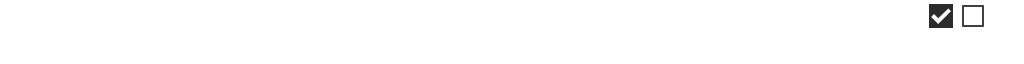
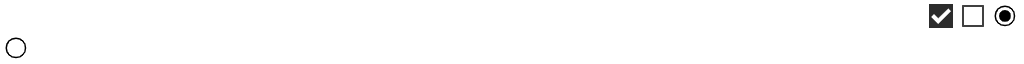
add input

Changed region(s): [[0.9688, 0.0938, 1.0, 0.4062], [0.0, 0.5938, 0.0312, 0.9062]]

diff --git a/crates/alice_function/src/window/gui.rs b/crates/alice_function/src/window/gui.rs
@@ -44,11 +44,14 @@ impl Gui {
                     
                 ui.label("Test Checkbox");
                 ui.same_line();
-                ui.checkbox(&mut self.checked,"checkbox0");
+                ui.checkbox(&mut self.checked,"show radio");
              
             });
 
-            Panel::new("Checkbox Panel1")
+   
+           
+            if self.checked {
+                Panel::new("Radio Panel")
                 .set_style(StyleSheet::MarginLeft(20.0))
                 .set_style(StyleSheet::MarginTop(20.0))
                 .set_style(StyleSheet::PaddingLeft(20.0))
@@ -56,40 +59,26 @@ impl Gui {
                 .set_style(StyleSheet::Height(200.0))
                 .show(&mut self.ctx,|ui| {
                     
-                ui.label("Test Checkbox");
+                ui.label("Test Radio Group");
                 ui.same_line();
-                ui.checkbox(&mut self.checked,"checkbox0");
-              
-            });
-
-           
-
-
-        //     Panel::new("Radio Panel")
-        //     .set_style(StyleSheet::MarginLeft(20.0))
-        //     .set_style(StyleSheet::MarginTop(20.0))
-        //     .set_style(StyleSheet::PaddingLeft(20.0))
-        //     .set_style(StyleSheet::Width(400.0))
-        //     .set_style(StyleSheet::Height(200.0))
-        //     .show(&mut self.ctx,|ui| {
+                if ui.radio(self.radio == RadioEnum::First,"First").clicked() {
+                    self.radio = RadioEnum::First;
+                };
+                ui.same_line();
+                if ui.radio(self.radio == RadioEnum::Second,"Second").clicked() {
+                    self.radio = RadioEnum::Second;
+                };
+               
+                ui.same_line();
                 
-        //     ui.label("Test Radio Group");
-        //     ui.same_line();
-        //     if ui.radio(self.radio == RadioEnum::First,"First").clicked() {
-        //         self.radio = RadioEnum::First;
-        //     };
-        //     ui.same_line();
-        //     if ui.radio(self.radio == RadioEnum::Second,"Second").clicked() {
-        //         self.radio = RadioEnum::Second;
-        //     };
+                if ui.radio(self.radio == RadioEnum::Third,"third").clicked() {
+                    self.radio = RadioEnum::Third;
+                };
+               
+            });
+            }
+
            
-        //     ui.same_line();
-            
-        //     if ui.radio(self.radio == RadioEnum::Third,"third").clicked() {
-        //         self.radio = RadioEnum::Third;
-        //     };
-           
-        // });
       
            
 

diff --git a/crates/alice_function/src/ui/widget/text_edit/buffer.rs b/crates/alice_function/src/ui/widget/text_edit/buffer.rs
@@ -1,0 +1,103 @@
+use std::ops::Range;
+
+
+
+
+
+
+pub(super) trait TextBuffer: AsRef<str> {
+    fn is_mutable(&self) -> bool;
+
+    fn as_str(&self) -> &str {
+        self.as_ref()
+    }
+
+    fn char_range(&self , char_range:Range<usize>) -> &str {
+        assert!(char_range.start <= char_range.end);
+
+        let start_byte = self.byte_index_from_char_index(char_range.start);
+        let end_byte = self.byte_index_from_char_index(char_range.end);
+
+        &self.as_str()[start_byte..end_byte]
+    }
+
+    fn byte_index_from_char_index(&self , char_index:usize) -> usize {
+        byte_index_from_char_index(self.as_str(), char_index)
+    }
+
+    fn insert_text(&mut self , text:&str , char_index:usize) -> usize;
+
+    fn delete_char_range(&mut self , char_range:Range<usize>);
+
+    fn clear(&mut self) {
+        self.delete_char_range(0..self.as_str().len())
+    }
+
+    fn replace(&mut self , text:&str) {
+        self.clear();
+        self.insert_text(text, 0);
+    }
+
+    fn take(&mut self) -> String {
+        let s = self.as_str().to_owned();
+        self.clear();
+        s
+    }
+
+}
+
+
+impl TextBuffer for String {
+    fn is_mutable(&self) -> bool {
+        true
+    }
+
+    fn insert_text(&mut self , text:&str , char_index:usize) -> usize {
+        let byte_index = self.byte_index_from_char_index(char_index);
+
+        self.insert_str(byte_index, text);
+
+        text.chars().count()
+    }
+
+    fn delete_char_range(&mut self , char_range:Range<usize>) {
+        assert!(char_range.start <= char_range.end);
+
+        let start_byte = self.byte_index_from_char_index(char_range.start);
+        let end_byte = self.byte_index_from_char_index(char_range.end);
+
+        self.drain(start_byte..end_byte);
+    }
+
+    fn replace(&mut self , text:&str) {
+        *self = text.to_owned()
+    }
+
+    fn take(&mut self) -> String {
+        std::mem::take(self)
+    }
+}
+
+
+impl<'a> TextBuffer for &'a str {
+    fn is_mutable(&self) -> bool {
+        false
+    }
+
+    fn insert_text(&mut self , text:&str , char_index:usize) -> usize {
+        0
+    }
+
+    fn delete_char_range(&mut self , char_range:Range<usize>) {
+        
+    }
+}
+
+fn byte_index_from_char_index(s:&str,char_index:usize) -> usize {
+    for ( ci , (bi, _) ) in s.char_indices().enumerate() {
+        if ci == char_index {
+            return bi;
+        }
+    }
+    s.len()
+}

diff --git a/crates/alice_function/src/paint/label/texture_atlas.rs b/crates/alice_function/src/paint/label/texture_atlas.rs
@@ -11,7 +11,7 @@ pub struct FontAtlas {
     size:       Vector2<usize>,
     used_place: Vector2<usize>,
     pub(crate) image:      image::DynamicImage,
-    row_height: u32,
+    row_height: usize,
 }
 
 impl FontAtlas {
@@ -32,15 +32,19 @@ impl FontAtlas {
 
     pub fn allocate(&mut self , (w,h):(usize,usize) ) -> ( (usize,usize) , &mut image::DynamicImage ) {
         
-        let space = self.used_place;
+        let mut space = self.used_place;
+
+     
         if w + self.used_place.x > self.size.x {
             // 换行
             self.used_place.x = 0;
-            self.used_place.y += h;
-        }else{
-            self.used_place.x += w;
-            
-        }   
+            self.used_place.y += self.row_height;
+            self.row_height = 0;
+            space = self.used_place;
+        }
+        self.used_place.x += w;
+             
+        self.row_height = if self.row_height < h { h } else { self.row_height };
 
         // TODO used_place.y > size.y ???
         

diff --git a/crates/alice_function/src/paint/display.rs b/crates/alice_function/src/paint/display.rs
@@ -24,7 +24,7 @@ impl Layout {
          
         let mut space = self.pos + self.used_space;
       
-        if w + self.used_space.x + self.pos.x > self.size.x {
+        if w + self.used_space.x  > self.size.x {
             // 换行
             self.used_space.x = 0.0;
             self.used_space.y += self.row_height;
@@ -44,7 +44,7 @@ impl Layout {
     pub fn allocate_virtual_space(&mut self ,  (w,h):(f32,f32) ) -> ( f32 , f32 ) {
         let mut space = self.pos + self.used_space;
       
-        if w + self.used_space.x + self.pos.x > self.size.x {
+        if w + self.used_space.x > self.size.x {
             // 换行
             self.used_space.x = 0.0;
             self.used_space.y += self.row_height;

diff --git a/crates/alice_function/src/ui/widget/text_edit/state.rs b/crates/alice_function/src/ui/widget/text_edit/state.rs
@@ -1,0 +1,29 @@
+use crate::ui::{context::Context, id::Id};
+
+use super::cursor::Cursor;
+
+#[derive(Debug,Clone)]
+pub struct EditState {
+    cursor:Option<Cursor>
+}
+
+impl EditState {
+    pub fn load(ctx:&Context , id:Id) -> Option<Self> {
+        ctx.borrow_mut().data().get_persisted(id)
+    }
+
+    pub fn save(self , ctx:&Context,id:Id) {
+        ctx.borrow_mut().data().insert_persisted(id, self)
+    }
+
+    pub fn set_cursor( &mut self , cursor:Option<Cursor> ){
+        self.cursor = cursor;
+    }
+
+    pub fn cursor_range(&self) -> Option<Cursor> {
+        self.cursor.or_else(||{
+            self.cursor.map(|cursor| Cursor::new(cursor.index) )
+        })
+    }
+
+}

diff --git a/crates/alice_function/src/ui/widget/radio.rs b/crates/alice_function/src/ui/widget/radio.rs
@@ -43,8 +43,8 @@ impl Radio {
             color: Rgba::BLACK,
             margin:Default::default() ,
             padding:Default::default(),
-            checked_icon:String::from("assets/icon/checked.png"),
-            uncheck_icon:String::from("assets/icon/unchecked.png")
+            checked_icon:String::from("assets/icon/select.png"),
+            uncheck_icon:String::from("assets/icon/unselect.png")
         }
     }
     pub fn set_style(mut self ,style:StyleSheet) -> Self {

diff --git a/crates/alice_function/src/window/window_system.rs b/crates/alice_function/src/window/window_system.rs
@@ -187,7 +187,7 @@ pub fn window_run(){
             }
             Event::MainEventsCleared => {
                 // 除非手动请求，否则 RedrawRequested 只会触发一次
-                // window.get_window().request_redraw()
+                window.get_window().request_redraw()
              
                 // let mut window_system = engine.ctx.as_ref().unwrap().window_system.borrow_mut();
                

diff --git a/crates/alice_function/src/paint/label/font.rs b/crates/alice_function/src/paint/label/font.rs
@@ -79,6 +79,8 @@ impl Font {
 
         self.compose_icon("assets/icon/checked.png");
         self.compose_icon("assets/icon/unchecked.png");
+        self.compose_icon("assets/icon/select.png");
+        self.compose_icon("assets/icon/unselect.png");
         self.font_atlas.image.save("test.png");
     }
 

diff --git a/crates/alice_function/src/ui/widget/text_edit/cursor.rs b/crates/alice_function/src/ui/widget/text_edit/cursor.rs
@@ -1,0 +1,16 @@
+
+
+#[derive(Debug,Clone, Copy)]
+pub struct Cursor {
+    pub index:usize,
+    pub at_return_after:bool
+}
+
+impl Cursor {
+    pub fn new( index: usize ) -> Self {
+        Self { index, at_return_after:false }
+    }
+}
+
+
+

diff --git a/crates/alice_function/src/ui/painter.rs b/crates/alice_function/src/ui/painter.rs
@@ -346,7 +346,6 @@ pub fn draw_icon( font:&mut Font , path:&str , pos:Vector2f , out:&mut Mesh) {
 
     if !path.is_empty() {
 
-        let n = path.len();
 
         out.reserve_vertex(4);
         out.reserve_index(2);

diff --git a/crates/alice_function/src/ui/widget/mod.rs b/crates/alice_function/src/ui/widget/mod.rs
@@ -12,6 +12,8 @@ pub mod ui_context;
 
 pub mod label;
 
+pub mod text_edit;
+
 pub mod icon;
 
 pub trait Widget {

diff --git a/crates/alice_function/src/ui/widget/text_edit/mod.rs b/crates/alice_function/src/ui/widget/text_edit/mod.rs
@@ -1,0 +1,3 @@
+pub mod cursor;
+pub mod buffer;
+pub mod state;
